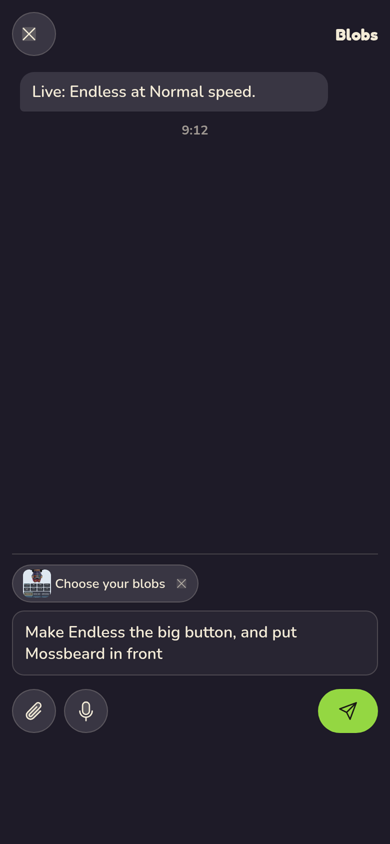
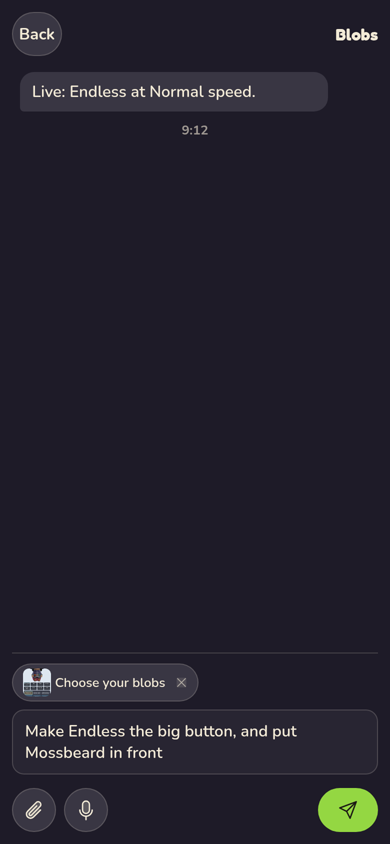
Match the real phone chat in mocks

diff --git a/docs/mocks/854/index.html b/docs/mocks/854/index.html
@@ -17,8 +17,9 @@
     />
     <link rel="stylesheet" href="../../../apps/web/src/tokens.css" />
     <link rel="stylesheet" href="../../../apps/web/src/app/chrome.css" />
-    <link rel="stylesheet" href="../../../apps/web/src/features/build-chat/dock.css" />
     <link rel="stylesheet" href="../../../apps/web/src/features/build-chat/chat.css" />
+    <link rel="stylesheet" href="../../../apps/web/src/features/build-chat/dock.css" />
+    <link rel="stylesheet" href="../../../apps/web/src/features/build-chat/command-card.css" />
     <link rel="stylesheet" href="../../../apps/web/src/features/worker-builds/build-tracker.css" />
     <link rel="stylesheet" href="../../../apps/web/src/features/commands-inbox/review-glass.css" />
     <link rel="stylesheet" href="../../../apps/web/src/features/commands-inbox/review-deck.css" />
@@ -84,7 +85,11 @@
       .studio-menu-sheet {
         width: 100%;
       }
-            .build-chat-composer-actions button {
+            /* The phone chat fills the screen (100svh); inside a mock frame that is the frame. */
+      .build-chat-dock[data-state='chat'] .build-chat-panel {
+        height: 100% !important;
+      }
+      .build-chat-composer-actions button {
         min-height: var(--tap-secondary);
         min-width: var(--tap-secondary);
         display: grid;
@@ -160,12 +165,6 @@
         display: grid;
         grid-template-columns: 1fr 1fr;
         gap: 8px;
-      }
-      .build-chat-option.picked {
-        outline: 3px solid var(--yellow-b);
-      }
-      .build-chat-option span {
-        font: 700 15px var(--display);
       }
       /* Phone OS lock screen for the push mock (outside the app). */
       .lock {
@@ -252,7 +251,7 @@
         <div class="build-chat-panel">
           <section class="build-chat-chat" aria-label="Executor">
             <header class="build-chat-chat-head">
-              <button class="build-chat-back tap-secondary" aria-label="Close"><i data-icon="close" style="width: 20px; height: 20px"></i></button>
+              <button class="build-chat-back tap-secondary" type="button">Back</button>
               <h3>Blobs</h3>
             </header>
             <div class="build-chat-messages">
@@ -282,7 +281,7 @@
         <div class="build-chat-panel">
           <section class="build-chat-chat" aria-label="Executor">
             <header class="build-chat-chat-head">
-              <button class="build-chat-back tap-secondary" aria-label="Close"><i data-icon="close" style="width: 20px; height: 20px"></i></button>
+              <button class="build-chat-back tap-secondary" type="button">Back</button>
               <h3>Blobs</h3>
             </header>
             <div class="build-chat-messages">
@@ -315,7 +314,7 @@
         <div class="build-chat-panel">
           <section class="build-chat-chat" aria-label="Executor">
             <header class="build-chat-chat-head">
-              <button class="build-chat-back tap-secondary" aria-label="Close"><i data-icon="close" style="width: 20px; height: 20px"></i></button>
+              <button class="build-chat-back tap-secondary" type="button">Back</button>
               <h3>Blobs</h3>
             </header>
             <div class="build-chat-messages">
@@ -360,21 +359,32 @@
         <div class="build-chat-panel">
           <section class="build-chat-chat" aria-label="Executor">
             <header class="build-chat-chat-head">
-              <button class="build-chat-back tap-secondary" aria-label="Close"><i data-icon="close" style="width: 20px; height: 20px"></i></button>
+              <button class="build-chat-back tap-secondary" type="button">Back</button>
               <h3>Blobs</h3>
             </header>
             <div class="build-chat-messages">
               <div class="build-chat-row text creator"><p>Make Endless the big button, and put Mossbeard in front</p></div>
               <div class="build-chat-row text"><p>On it. Two looks for you in about 20 minutes.</p></div>
-              <div class="build-chat-row command">
-                <strong>Which menu?</strong>
+              <article class="build-chat-row command command-open" aria-labelledby="cmd-1">
+                <strong id="cmd-1">Which menu?</strong>
                 <div class="build-chat-options">
-                  <button class="build-chat-option"><img src="menu-phone.jpg" alt="" /><span>A</span></button>
-                  <button class="build-chat-option"><img src="vcpu-phone-results.jpg" alt="" /><span>B</span></button>
+                  <button class="build-chat-option" aria-label="A" aria-pressed="false" style="min-height: 64px">
+                    <span class="command-option-media"><img alt="" src="menu-phone.jpg" /></span><span class="command-option-label">A</span>
+                  </button>
+                  <button class="build-chat-option" aria-label="B" aria-pressed="false" style="min-height: 64px">
+                    <span class="command-option-media"><img alt="" src="vcpu-phone-results.jpg" /></span><span class="command-option-label">B</span>
+                  </button>
                 </div>
-                <button class="build-chat-read tap-secondary">Review</button>
-              </div>
+              </article>
               <p class="build-chat-row progress">9:36</p>
+            </div>
+            <div class="build-chat-composer">
+              <textarea rows="1"></textarea>
+              <div class="build-chat-composer-actions">
+                <button class="build-chat-attach tap-secondary" aria-label="Attach"><i data-icon="paperclip"></i></button>
+                <button class="build-chat-dictate tap-secondary" aria-label="Dictate"><i data-icon="mic"></i></button>
+                <button class="build-chat-send tap-primary" aria-label="Send"><i data-icon="send"></i></button>
+              </div>
             </div>
           </section>
         </div>
